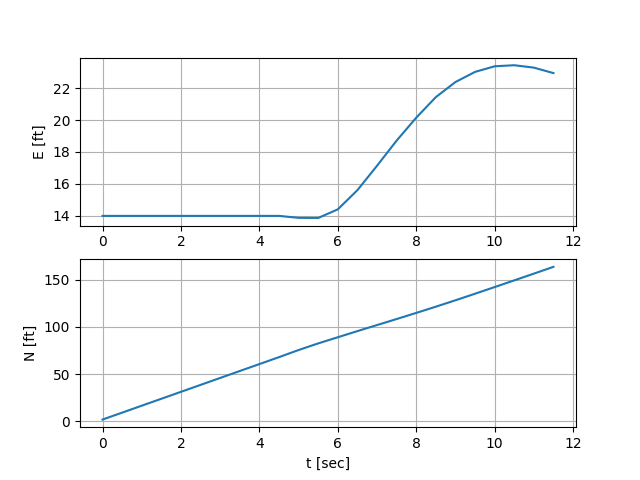
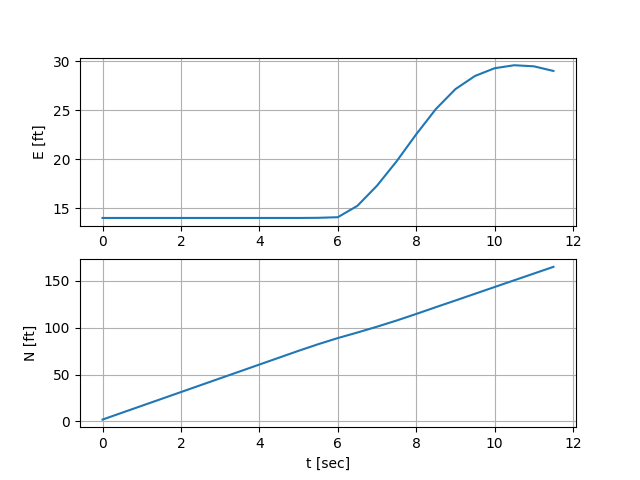
working for 1 obstacle without any glitches which maxiter set to 60

diff --git a/printPlots.py b/printPlots.py
@@ -61,6 +61,8 @@ def nmpcPlotSol(u_new,path,x0,obstacle,pathType):
             plt.plot(x3, y3, 'r', x4, y4, 'r')
 
     plt.grid(True)
+    plt.ylim([0, 240])
+    plt.xlim([-10, 40])
 
     if True: # obstacle is present:
 
@@ -350,10 +352,14 @@ def nmpcPlot(t,x,u,path,obstacle,tElapsed,V_terminal,latAccel,delChi,settingsFil
     plt.figure(7)
     figno[6] = plt.gcf().number
 
-    plt.plot(iterations, tElapsed)
+    #plt.plot(iterations, tElapsed)
+    plt.plot(t, tElapsed)
     plt.ylabel('CPU Time [sec]')
-    plt.xlabel('Iteration')
+    #plt.xlabel('Iteration')
+    plt.xlabel('t [sec]')
     plt.grid(True)
+    #plt.xlim([0, 35])
+    #plt.ylim([0, 3])
 
 
     # figure 8

diff --git a/problemData.py b/problemData.py
@@ -90,7 +90,7 @@ posIdx0 = {'number': 0}
 if ns == 4:
 
     # Ipopt settings
-    nlpMaxIter = 50
+    nlpMaxIter = 60
 
     # Kinematic Constraints
     E0 = startPoint[0]  # ft (North, long)
@@ -195,8 +195,8 @@ if no == 0:
 
 elif no == 1:
 
-    obstacleE = np.array([4.0]) * scaleFactorE # ft, center
-    obstacleN = np.array([63.0]) * scaleFactorN # ft, center
+    obstacleE = np.array([7.0 - 0.5]) * scaleFactorE # ft, center
+    obstacleN = np.array([65.0]) * scaleFactorN # ft, center
     obstacleChi = np.array([0.0])  # rad
     obstacleLength = np.array([4.0]) * scaleFactorN # ft
     obstacleWidth = np.array([6.0]) * scaleFactorE # ft
